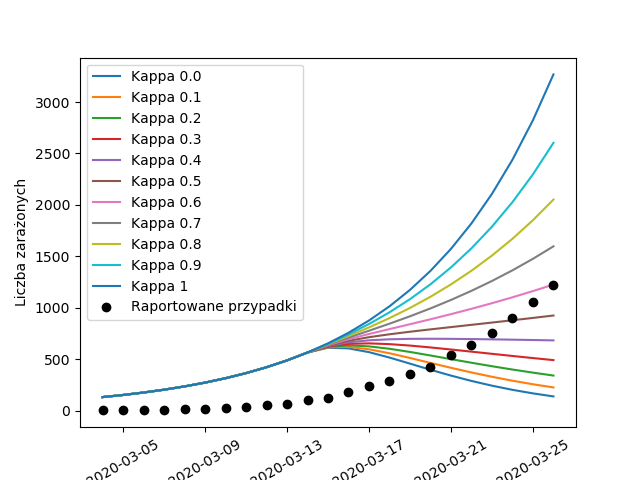
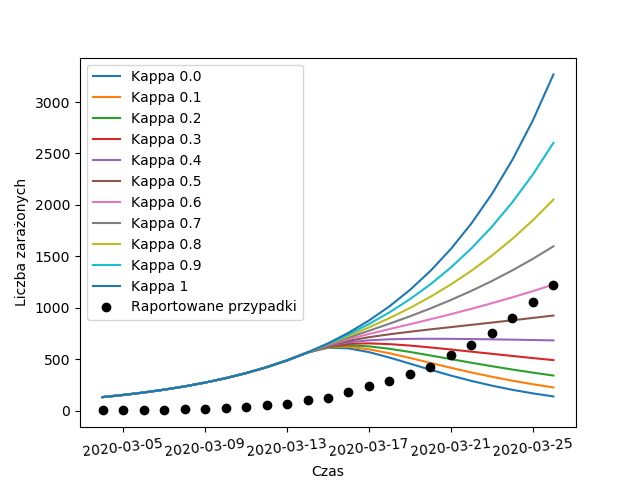
Ostateczna zmiana ułozenia daty

Changed region(s): [[0.125, 0.9062, 0.9062, 1.0]]

diff --git a/plots.py b/plots.py
@@ -30,7 +30,7 @@ def R_0andKappa():
     "Wykres zarażonych dla róznych parametrów R_0 i Kappa"
     for R_0 in lista_R_0:
         fig, ax = plt.subplots()
-        plt.xticks(fontsize=10, rotation=30)
+        plt.xticks(fontsize=10, rotation=6)
         ppot ,pcov = model.data_fit(R_0 = R_0)
         date_span = []
         date = datetime(2020,3,4)
